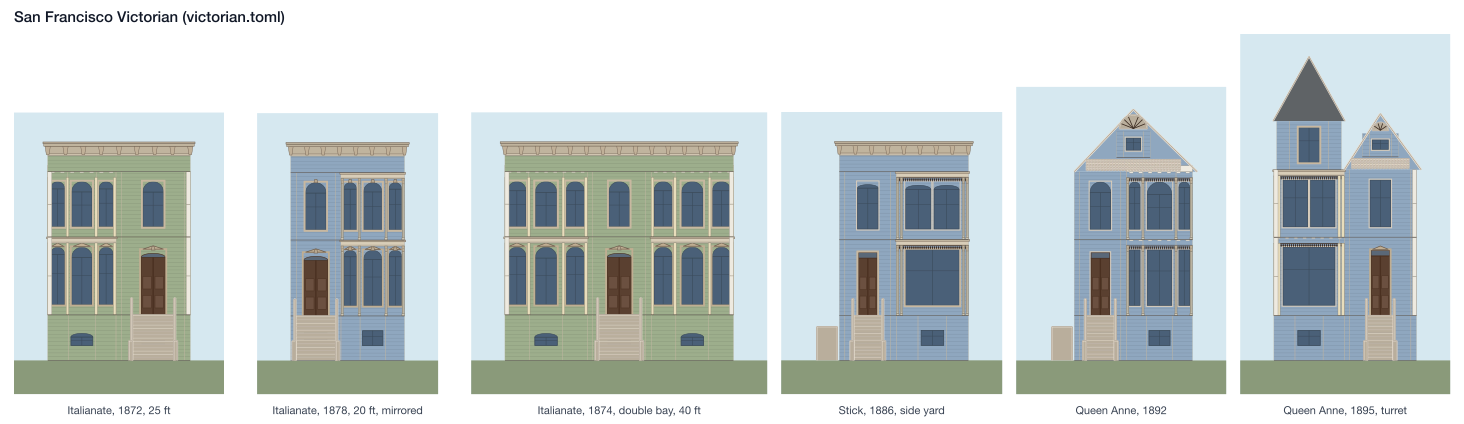
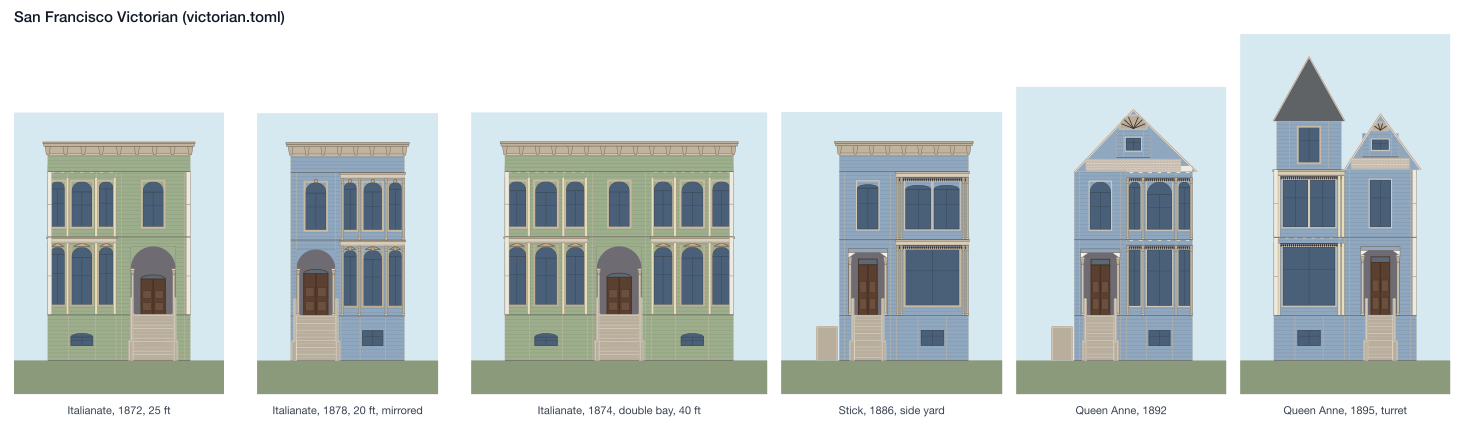
Victorian: the front door set back in a recessed entry porch
Most houses on the Steiner Street row (Alamo Square) put the door in a porch
recessed at the top of the stoop. The rules now draw one on most fronts
(italianate 0.6, stick 0.6, queen anne 0.8): the porch's shade, the front's
face over it with a round arch cut from it (Italianate) or a square head with
a bracket in each corner (Stick, Queen Anne), a colonnette at each jamb, and
the door inside without a hood of its own.

diff --git a/src/buildings/typologies/victorian/grammar.py b/src/buildings/typologies/victorian/grammar.py
@@ -11,12 +11,12 @@ the entry points.
 
 from __future__ import annotations
 
-from dataclasses import dataclass
+from dataclasses import dataclass, replace
 from pathlib import Path
 from typing import Callable
 
 from buildings.cga import Grammar, Shape
-from buildings.ir.nodes import BuildingNode, GableNode
+from buildings.ir.nodes import BuildingNode, GableNode, SocleNode
 from buildings.site import BuildingClass
 from buildings.trace import TraceLog
 from buildings.typologies.common import kit
@@ -102,6 +102,24 @@ def write_fence(fence: Shape, below, d) -> list:
                              "hoist_beam": None, "wall_material": fence.attr("paint")})]
 
 
+def write_porch_shade(shade: Shape, below, d) -> list:
+    """The shade inside a recessed entry porch, laid on the wall before the
+    door in it is drawn."""
+    return [SocleNode(id=shade.id, kind="socle", trace=tuple(shade.trace),
+                      props={**kit.xywh(shade.scope), "treatment": "porch", "paint": "porch_shadow"})]
+
+
+def write_storey(storey: Shape, below, d) -> list:
+    """A storey, its porch shade laid on the wall before its openings."""
+    out = kit.write_storey(storey, below, d)
+    node = out[0]
+    socles = tuple(c for c in node.children if c.kind == "socle")
+    rest = tuple(c for c in node.children if c.kind != "socle")
+    return [replace(node, children=socles + rest), *out[1:]]
+
+
+register_writer("victorian.porch_shade", write_porch_shade)
+register_writer("victorian.storey", write_storey)
 register_writer("victorian.stoop", write_stoop)
 register_writer("victorian.fence", write_fence)
 

diff --git a/tests/unit/test_victorian_normandy.py b/tests/unit/test_victorian_normandy.py
@@ -89,3 +89,19 @@ def test_the_country_house_is_close_set_under_thatch():
         return len(posts) / ground.props["w"]
 
     assert posts_per_metre(b) > posts_per_metre(town)
+
+
+def test_most_doors_are_set_back_in_a_recessed_porch():
+    from buildings.site import BuildingClass
+    from buildings.typologies.victorian.grammar import VictorianSite, derive_victorian
+
+    porches = 0
+    for seed in range(30):
+        lot, _ = derive_victorian(VictorianSite(1880 + seed % 15, BuildingClass.ORDINARY, seed))
+        shade = [s for s in lot.walk() if s.label == "PorchShade"]
+        porches += bool(shade)
+        if shade:
+            door = next(c for c in lot.walk() if c.label == "Cell" and c.attrs.get("opening_type") == "pedestrian_entrance")
+            assert door.attrs["surround_kind"] == "none"
+            assert shade[0].scope.contains(door.children[0].scope) or shade[0].scope.w >= door.attrs["light_width"]
+    assert 12 <= porches <= 28

diff --git a/src/buildings/render/svg/elements.py b/src/buildings/render/svg/elements.py
@@ -1087,6 +1087,11 @@ def draw_socle(canvas: Canvas, x: float, y: float, w: float, h: float, props: Ma
             canvas.rect(x - grow, top - h / rows, w + 2 * grow, h / rows, _C["istrian"], stroke=_C["istrian_line"], stroke_w=0.4)
         canvas.rect(x - spread * rows, y, w + 2 * spread * rows, h - _num(props, "dry_h", 0.0), _C["water"], stroke_w=0.0, opacity=0.55)
         return
+    if treatment in ("zocalo", "porch"):
+        # A painted band at a wall's foot, or the shade inside a recessed
+        # porch: one flat field in the paint the IR states.
+        canvas.rect(x, y, w, h, _C.get(str(props.get("paint")), fill), stroke_w=0.0)
+        return
     if treatment == "istrian_course":
         # Courses of white stone, the joints of each course breaking those
         # of the one below.

diff --git a/src/buildings/render/svg/colors.py b/src/buildings/render/svg/colors.py
@@ -162,6 +162,8 @@ COLORS: dict[str, str] = {
     "coral_stone_joint": "#B3A688",
     "tile_red_dark": "#8C3D2B",
     "trim_white": "#F4F1EA",
+    # The shade inside a recessed entry porch.
+    "porch_shadow": "#6E6C72",
 }
 
 # The shade of each pastel: a back wall in shadow under a portal, a zocalo,
